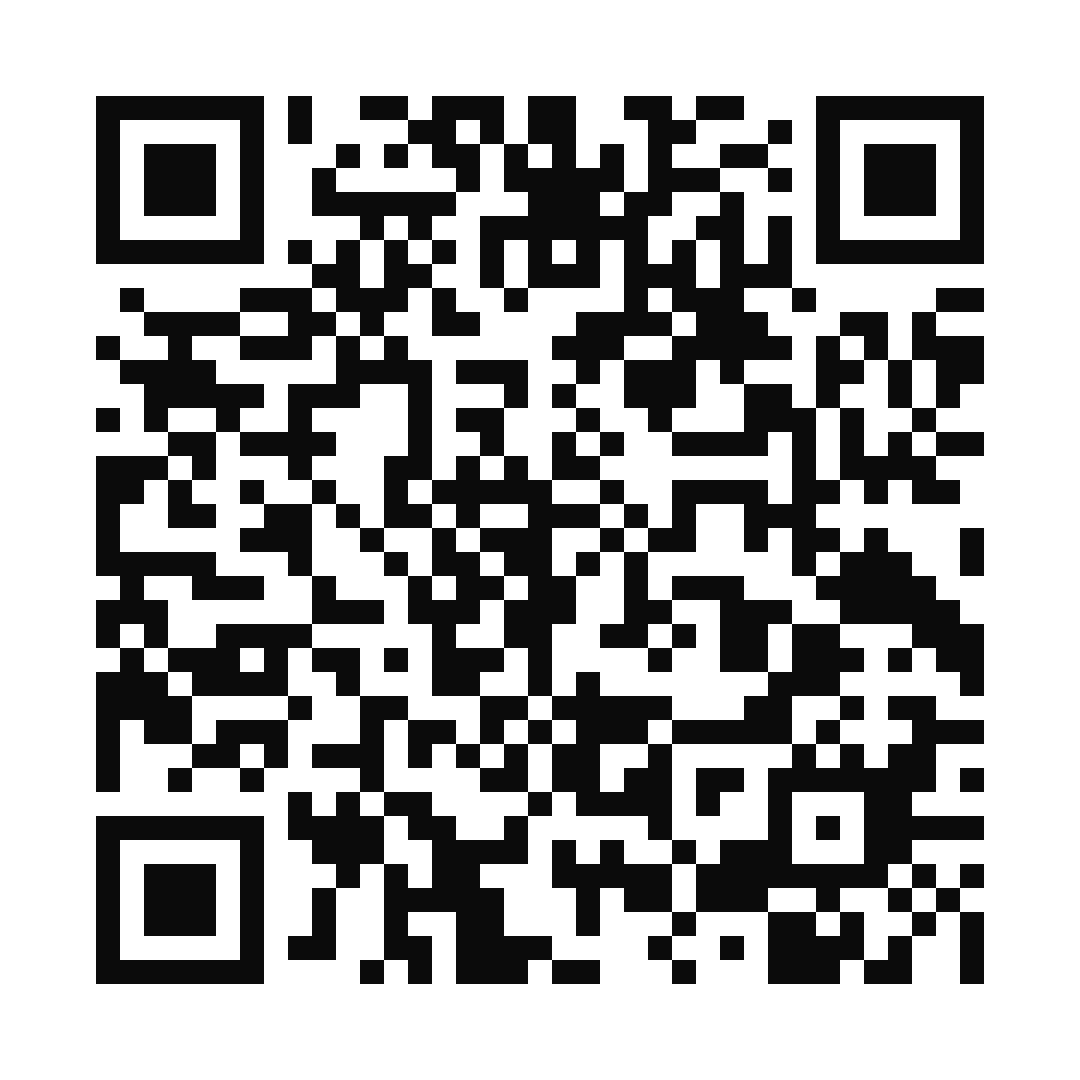
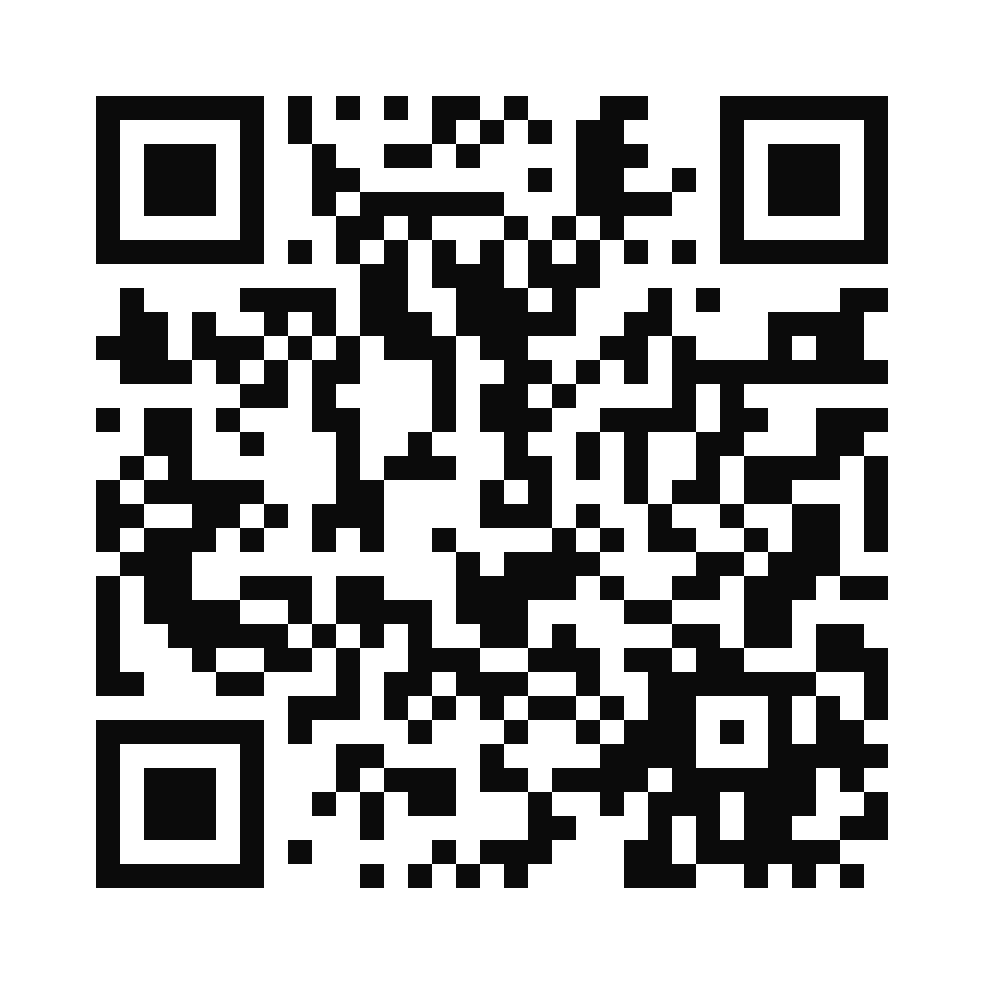
Rename to resolve-cut under Developh: skill, paths, hero, QR and credits

diff --git a/assets/src/hero.html b/assets/src/hero.html
@@ -2,7 +2,7 @@
 <html lang="en">
 <head>
 <meta charset="utf-8">
-<title>davinci-resolve-agent hero</title>
+<title>resolve-cut hero</title>
 <!--
   Source of assets/hero.png (3200x1440). Rendered with headless Chrome at 2x:
   chrome --headless=new --user-data-dir=<temp dir> --hide-scrollbars --force-device-scale-factor=2 \
@@ -80,7 +80,8 @@
   .a1 .seg { background: #1f1f1f; }
   .a1 .seg.p { background: #262626; }
   .head { position: absolute; top: -5px; bottom: -20px; right: -1px; width: 2px; background: var(--accent); border-radius: 1px; }
-  footer { display: flex; justify-content: center; margin-top: 32px; }
+  footer { display: flex; justify-content: center; align-items: center; gap: 18px; margin-top: 32px; }
+  .by { font-family: var(--mono); font-size: 15px; color: var(--fg-3); letter-spacing: -0.01em; }
   .sig {
     width: 96px; aspect-ratio: 1710 / 1041; background: var(--fg); opacity: 0.55;
     -webkit-mask: url(https://www.tiagonrodrigues.com/signature.png) center / contain no-repeat;
@@ -90,7 +91,7 @@
 </head>
 <body>
   <header>
-    <div class="path"><span>~/</span>davinci-resolve-agent</div>
+    <div class="path"><span>developh/</span>resolve-cut</div>
     <div class="pill">Claude Code skill · Resolve Studio 21.1</div>
   </header>
 
@@ -124,7 +125,7 @@
     </div>
   </div>
 
-  <footer><div class="sig" role="img" aria-label="Tiago Rodrigues"></div></footer>
+  <footer><div class="sig" role="img" aria-label="Tiago Rodrigues"></div><span class="by">at Developh</span></footer>
 
 <script>
   // Lesson 01 v2, the timeline the agent rendered: take label, frames, punch-in (zoom 1.2)

diff --git a/tests/fake_resolve.py b/tests/fake_resolve.py
@@ -4,7 +4,7 @@ plumbing, not Resolve's behaviour: the traps in SKILL.md were measured on the re
 import json
 import os
 
-SCRIPTS = os.path.join(os.path.dirname(os.path.abspath(__file__)), "..", "skills", "davinci-resolve-agent", "scripts")
+SCRIPTS = os.path.join(os.path.dirname(os.path.abspath(__file__)), "..", "skills", "resolve-cut", "scripts")
 calls = []
 
 

diff --git a/tests/test_media_scripts.py b/tests/test_media_scripts.py
@@ -10,7 +10,7 @@ import sys
 import tempfile
 
 HERE = os.path.dirname(os.path.abspath(__file__))
-sys.path.insert(0, os.path.join(HERE, "..", "skills", "davinci-resolve-agent", "scripts", "media"))
+sys.path.insert(0, os.path.join(HERE, "..", "skills", "resolve-cut", "scripts", "media"))
 
 
 def word(text, start, end):

diff --git a/assets/src/qr.py b/assets/src/qr.py
@@ -7,7 +7,7 @@ import os
 
 import qrcode
 
-URL = "https://github.com/tiagonrodrigues/davinci-resolve-agent"
+URL = "https://github.com/Developh/resolve-cut"
 qr = qrcode.QRCode(error_correction=qrcode.constants.ERROR_CORRECT_Q, box_size=24, border=4)
 qr.add_data(URL)
 qr.make(fit=True)
